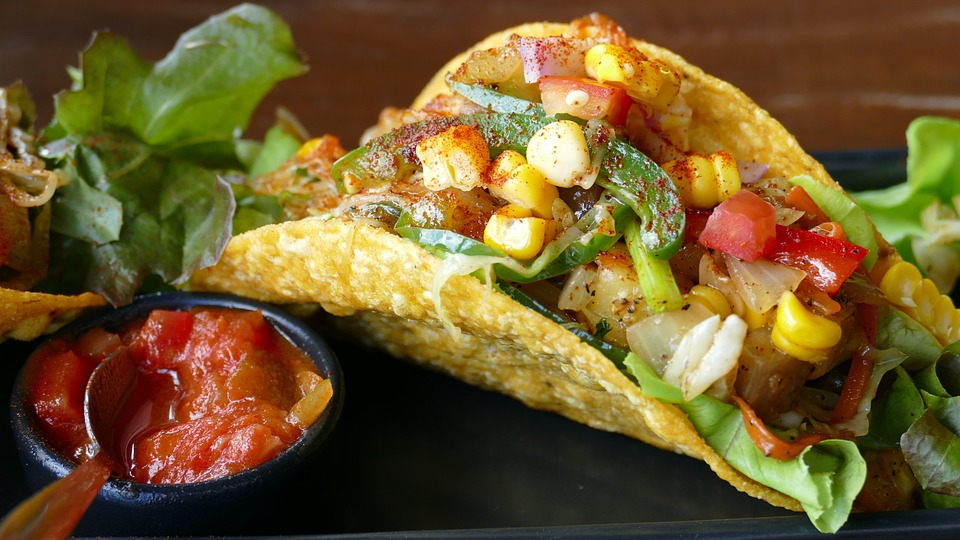
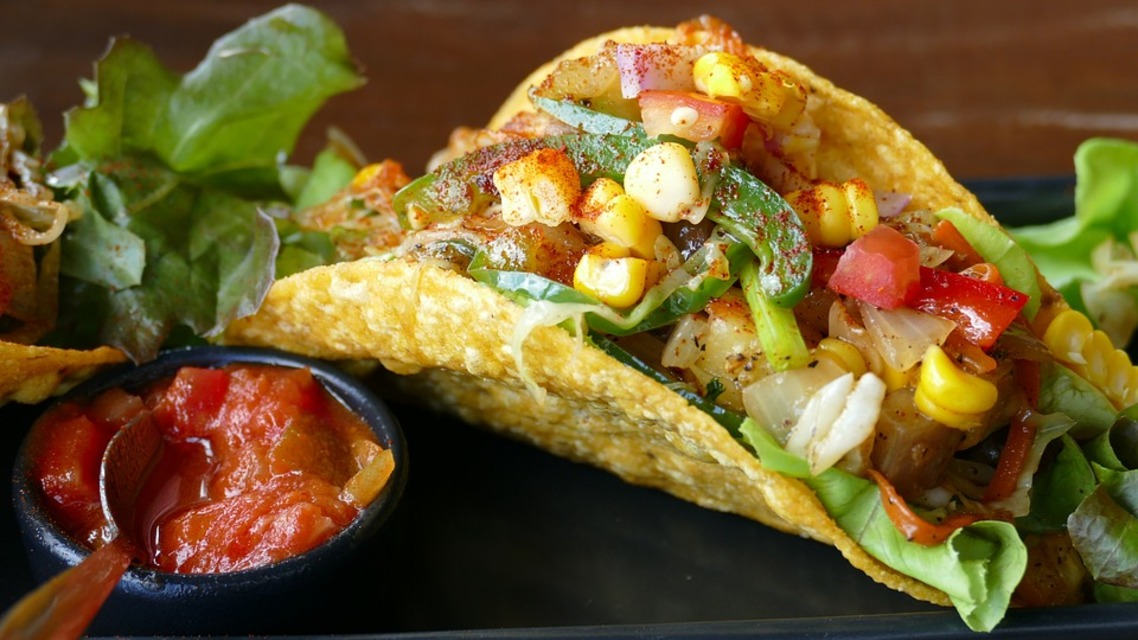
Arreglado carusel

diff --git a/index.html b/index.html
@@ -41,30 +41,24 @@
     </header>
     
     <main>
-
-        <article>
-            <div class="gps">
-                <i class="bi bi-geo-alt-fill"></i> <i class="bi bi-geo-alt-fill"></i> <i class="bi bi-geo-alt-fill"></i> <i class="bi bi-geo-alt-fill"></i> <i class="bi bi-geo-alt-fill"></i> <i class="bi bi-geo-alt-fill"></i> <i class="bi bi-geo-alt-fill"></i> <i class="bi bi-geo-alt-fill"></i> <i class="bi bi-geo-alt-fill"></i> <i class="bi bi-geo-alt-fill"></i> <i class="bi bi-geo-alt-fill"></i> <i class="bi bi-geo-alt-fill"></i> <i class="bi bi-geo-alt-fill"></i> <i class="bi bi-geo-alt-fill"></i> <i class="bi bi-geo-alt-fill"></i> <i class="bi bi-geo-alt-fill"></i> <i class="bi bi-geo-alt-fill"></i> <i class="bi bi-geo-alt-fill"></i> <i class="bi bi-geo-alt-fill"></i> <i class="bi bi-geo-alt-fill"></i> <i class="bi bi-geo-alt-fill"></i> <i class="bi bi-geo-alt-fill"></i> <i class="bi bi-geo-alt-fill"></i> <i class="bi bi-geo-alt-fill"></i> <i class="bi bi-geo-alt-fill"></i> <i class="bi bi-geo-alt-fill"></i> <i class="bi bi-geo-alt-fill"></i> <i class="bi bi-geo-alt-fill"></i> <i class="bi bi-geo-alt-fill"></i> <i class="bi bi-geo-alt-fill"></i> <i class="bi bi-geo-alt-fill"></i> <i class="bi bi-geo-alt-fill"></i> <i class="bi bi-geo-alt-fill"></i> <i class="bi bi-geo-alt-fill"></i> <i class="bi bi-geo-alt-fill"></i> <i class="bi bi-geo-alt-fill"></i> <i class="bi bi-geo-alt-fill"></i> <i class="bi bi-geo-alt-fill"></i> <i class="bi bi-geo-alt-fill"></i> <i class="bi bi-geo-alt-fill"></i> <i class="bi bi-geo-alt-fill"></i> <i class="bi bi-geo-alt-fill"></i> <i class="bi bi-geo-alt-fill"></i> <i class="bi bi-geo-alt-fill"></i> <i class="bi bi-geo-alt-fill"></i> <i class="bi bi-geo-alt-fill"></i> <i class="bi bi-geo-alt-fill"></i> <i class="bi bi-geo-alt-fill"></i> <i class="bi bi-geo-alt-fill"></i> <i class="bi bi-geo-alt-fill"></i> <i class="bi bi-geo-alt-fill"></i> <i class="bi bi-geo-alt-fill"></i> <i class="bi bi-geo-alt-fill"></i> <i class="bi bi-geo-alt-fill"></i> <i class="bi bi-geo-alt-fill"></i> <i class="bi bi-geo-alt-fill"></i> <i class="bi bi-geo-alt-fill"></i> <i class="bi bi-geo-alt-fill"></i> <i class="bi bi-geo-alt-fill"></i> <i class="bi bi-geo-alt-fill"></i> <i class="bi bi-geo-alt-fill"></i> <i class="bi bi-geo-alt-fill"></i> <i class="bi bi-geo-alt-fill"></i> <i class="bi bi-geo-alt-fill"></i> <i class="bi bi-geo-alt-fill"></i> <i class="bi bi-geo-alt-fill"></i> <i class="bi bi-geo-alt-fill"></i> <i class="bi bi-geo-alt-fill"></i> <i class="bi bi-geo-alt-fill"></i> <i class="bi bi-geo-alt-fill"></i> <i class="bi bi-geo-alt-fill"></i> 
-            </div>
-        </article>
         
         <section>
             <h1 class="gradient">LOS ANTOJITOS</h1>
             <h2>Los mejores antojitos de todo Tampico</h2>
             
             <div id="carouselExampleControls" class="carousel slide" data-bs-ride="carousel">
-                <div class="carousel-inner bg-dark">
-                    <div class="carousel-item active">
-                        <img src="./assets/img/Imagen1.jpg" class="d-block w-5ñ0" alt="...">
+                <div class="carousel-inner bg-negro-antojitos">
+                    <div class="carousel-item active" data-bs-interval="2000">
+                        <img src="./assets/img/Imagen1.jpg" class="w-50 mx-auto d-block" alt="...">
                     </div>
-                    <div class="carousel-item">
-                        <img src="./assets/img/Imagen2.jpg" class="d-block w-50" alt="...">
+                    <div class="carousel-item" data-bs-interval="2000">
+                        <img src="./assets/img/Imagen2.jpg" class="w-50 mx-auto d-block" alt="...">
+                    </div>  
+                    <div class="carousel-item" data-bs-interval="2000">
+                        <img src="./assets/img/Imagen3.jpg" class="w-50 mx-auto d-block" alt="...">
                     </div>
-                    <div class="carousel-item">
-                        <img src="./assets/img/Imagen3.jpg" class="d-block w-50" alt="...">
-                    </div>
-                    <div class="carousel-item">
-                        <img src="./assets/img/Imagen4.jpg" class="d-block w-50" alt="...">
+                    <div class="carousel-item" data-bs-interval="2000">
+                        <img src="./assets/img/Imagen4.jpg" class="w-50 mx-auto d-block" alt="...">
                     </div>
                 </div>
                 <button class="carousel-control-prev" type="button" data-bs-target="#carouselExampleControls" data-bs-slide="prev">

diff --git a/pages/menu.html b/pages/menu.html
@@ -51,19 +51,19 @@
         <section>
             <h1 class="gradient">MENÚ</h1>
             
-            <article>
+            <article class="p-3">
                 <div class="menu-grid">    
 
                     <div class="menus-grid">
-                        <img src="../assets/img/menu1.jpg" alt="menu 1" wi dth="465em" height="850em">
+                        <img src="../assets/img/menu1.jpg" class="border border-4 border-dark" alt="menu 1" wi dth="465em" height="850em">
                     </div>
 
                     <div class="menus-grid">
-                        <img src="../assets/img/menu2.jpg" alt="menu 2" width="465em" height="850em">
+                        <img src="../assets/img/menu2.jpg" class="border border-4 border-dark" alt="menu 2" width="465em" height="850em">
                     </div>
 
                     <div class="menus-grid">
-                        <img src="../assets/img/menu3.jpg" alt="menu 3" width="465em" height="850em">
+                        <img src="../assets/img/menu3.jpg" class="border border-4 border-dark" alt="menu 3" width="465em" height="850em">
                     </div>
 
                 </div> 
@@ -74,7 +74,7 @@
                     <div class="row row-cols-2">
 
                       <div class="menus col"><img src="../assets/img/Foto6.jpeg" alt="Imagen platillo"></div>
-                      <div class="menus col"><img src="../assets/img/Foto7.jpeg" alt="Imagen platillo"><</div>
+                      <div class="menus col"><img src="../assets/img/Foto7.jpeg" alt="Imagen platillo"></div>
                       <div class="menus col"><img src="../assets/img/Foto8.jpeg" alt="Imagen platillo"></div>
                       <div class="menus col"><img src="../assets/img/Foto9.jpeg" alt="Imagen platillo"></div>
 

diff --git a/css/styles.css b/css/styles.css
@@ -16,6 +16,7 @@ body {
 header {
     position: sticky;
     top: 0;
+    z-index: 100;
 }
 
 .bg-negro-antojitos {
@@ -263,9 +264,7 @@ footer {
     margin: 0px;
 }
 
-.carousel-item {
-    margin: 0px;
-}
+
 /* .grid-container {
     font-size: 1.5rem;
     text-align: center;
